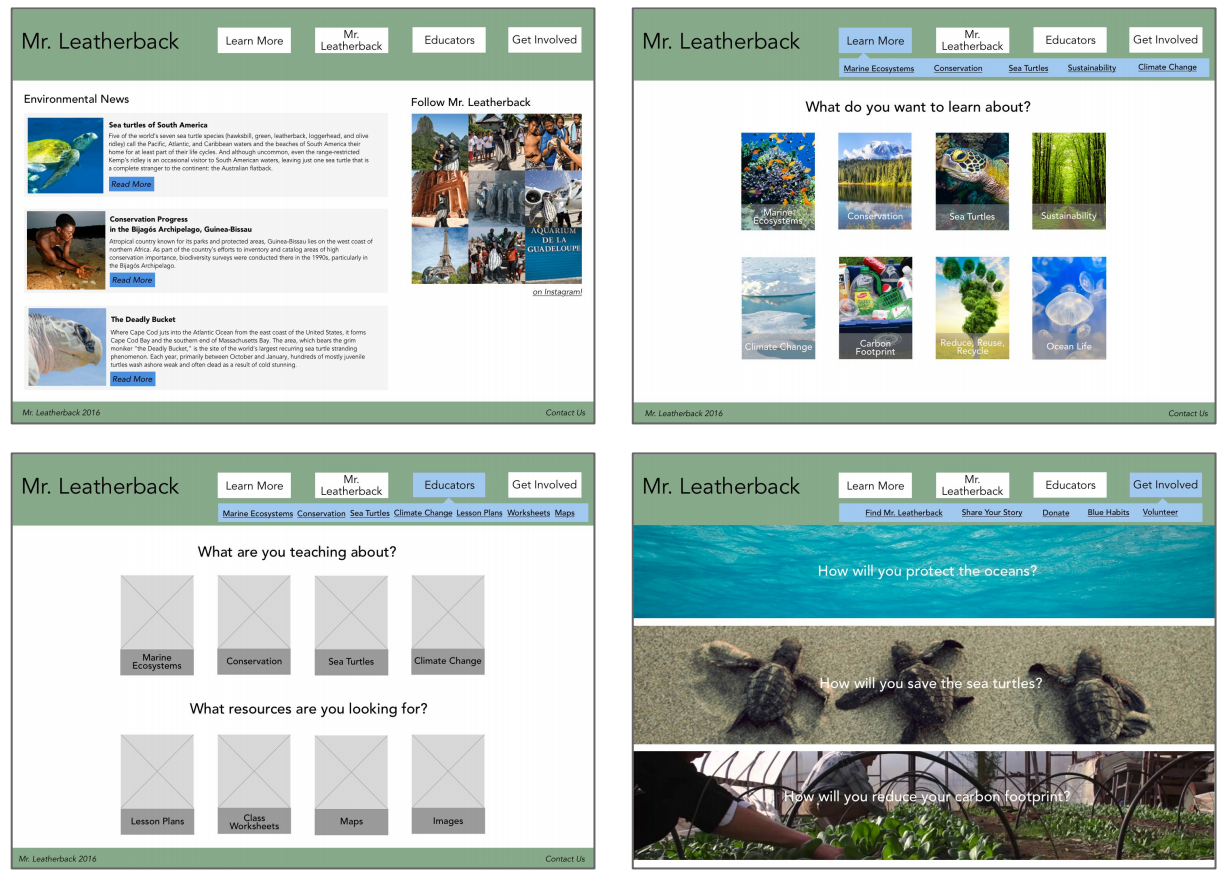
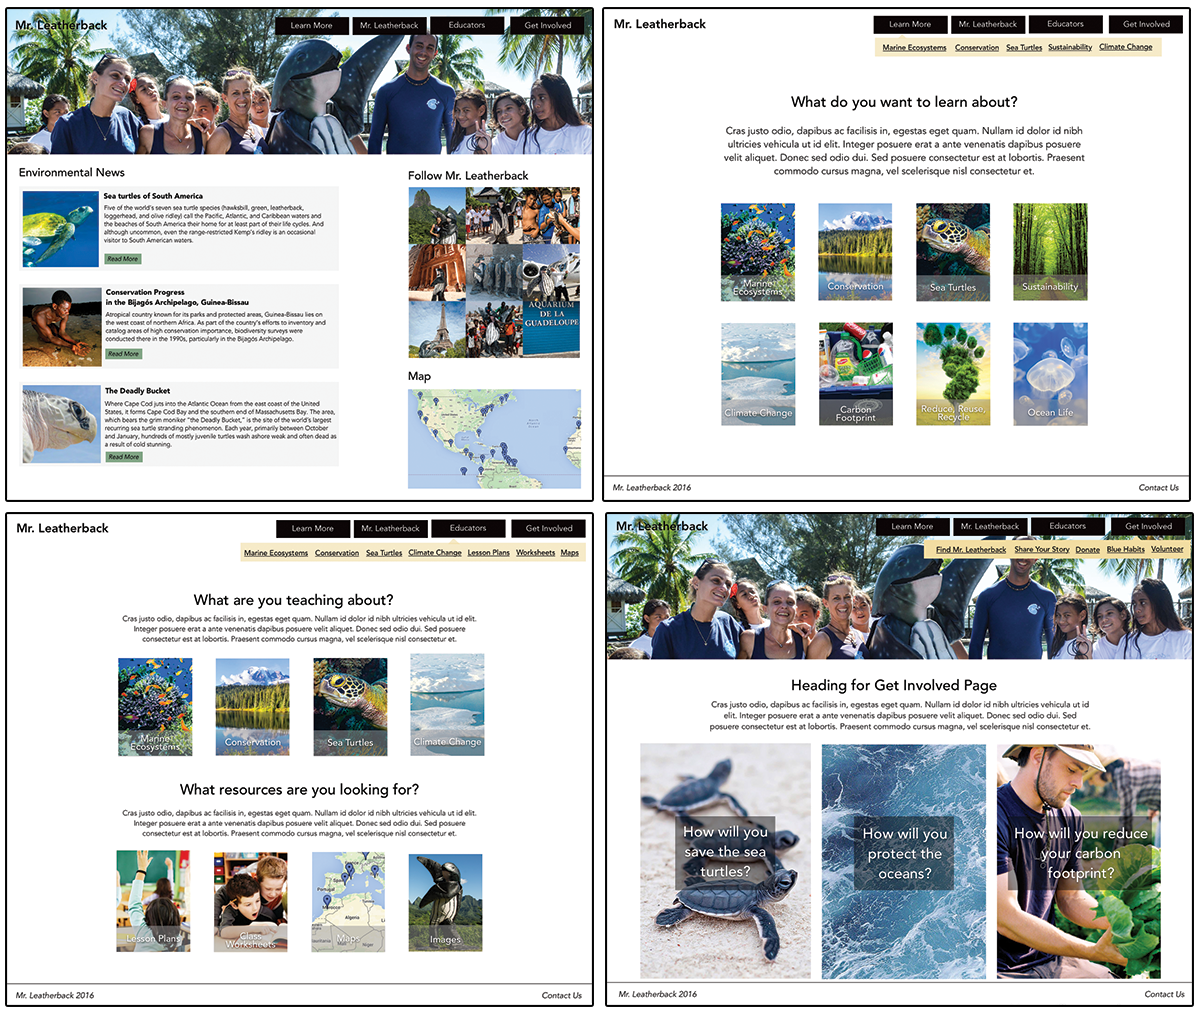
added sketches

diff --git a/index.html b/index.html
@@ -495,17 +495,17 @@
 
                                 <br><br>
                                 <h4>Wireframing &amp; Prototyping</h4>
-                                <p>Next, I created wireframes using the Sketch App, and put the wireframes into InVision App to conduct usability testing. I conducted in-person and online usability testing. After receiving valuable feedback from users, I iterated on the designs and improved some key features.</p>
+                                <p>Next, I sketched out my ideas, created wireframes using the Sketch App, and put the wireframes into InVision App to conduct usability testing. After receiving valuable feedback from in-person and online usability testing, I iterated on the designs and improved some key features. I created an InVision interactive prototype that I presented to the client.</p>
                                     
-                                    <h4>Wireframe</h4>
-                                    <img class="portfolio-images img-responsive" src="img/portfolio/sketches.png" width="1000" alt="">
+                                    <h4>Sketches</h4>
+                                    <img class="portfolio-images img-responsive" src="img/portfolio/sketch-MRL.png" width="1000" alt="">
 
-                                    <h4>Prototype</h4>
+                                    <h4>Wireframes</h4>
                                     <img class="portfolio-images img-responsive" src="img/portfolio/wireframes.png" width="1000" alt="">
 
 <!--                                     <img class="portfolio-images img-responsive" src="img/portfolio/usability-testing.jpg" width="100" alt=""> -->
 
-                                    <h4>MVP:                  <a href="https://invis.io/G6AREZAW3#/221928403_Home_Page" target="_blank" class="btn btn-primary">View Invision Prototype</a></h4>
+                                    <h4>Prototype:                  <a href="https://invis.io/G6AREZAW3#/221928403_Home_Page" target="_blank" class="btn btn-primary">View Invision Prototype</a></h4>
                                     
                                     <img class="portfolio-images img-responsive" src="img/portfolio/mrL-homepage.png" width="1000" alt="">
 
@@ -604,7 +604,7 @@
                                 <p>I conducted stakeholder interviews to understand the potential users and use cases of the data. I was able to identify these main user groups: data engineers, developers, and tech startups.</p>
 
                                 <h4>Sketching &amp; Wireframing</h4>
-                                <p>Need photo</p>
+                                <img class="portfolio-images img-responsive" src="img/portfolio/NIST-Sketches.png" width="1000" alt="">
 
                                 <h4>Front End Development</h4>
                                 <p>After going over designs with the rest of the team, I built a page template to serve as the basis for all pages of the website, using HTML, CSS, Javascript, and the Bootstrap framework. I collaborated with my team using Git &amp; Github.</p>
